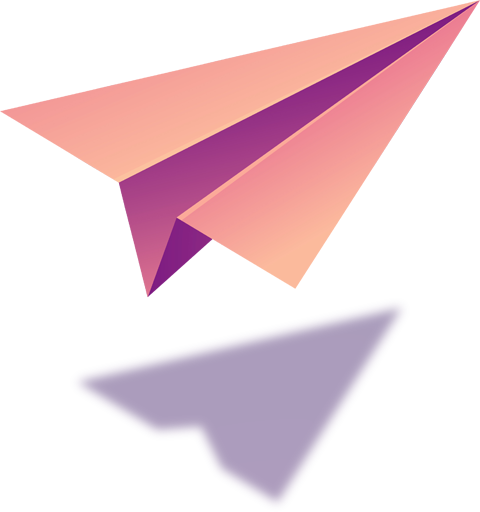
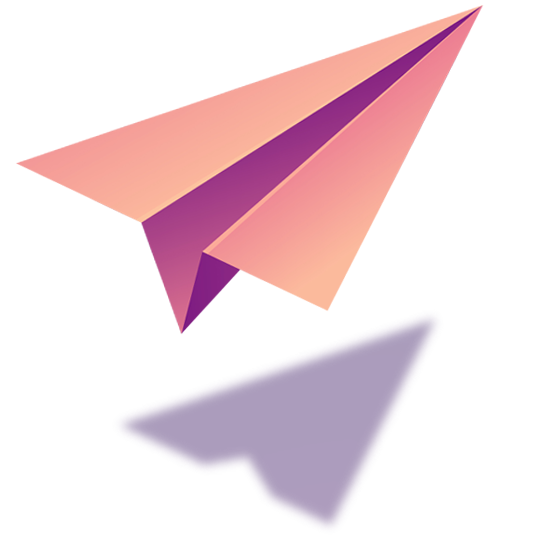
gradient

diff --git a/client/src/components/form/Login.css b/client/src/components/form/Login.css
@@ -56,24 +56,23 @@
     overflow: hidden;
 }
 
-.login__notification .envelope {
-    width: 130px;
+.login__notification .paperAirplane {
+    width: 170px;
     position: absolute;
     left: 20px;
     bottom: 0px;
     z-index: 1;
 }
 
-.login__notification .envelope img {
+.login__notification .paperAirplane img {
     width: 100%
 }
 
-
-.envelope-animation-enter {
- position: absolute;
+.paperAirplane-animation-enter {
+    position: absolute;
 }
 
-.envelope-animation-enter-active {
+.paperAirplane-animation-enter-active {
     transition: all 2000ms ease-in-out;
     position: absolute;
     transform: translate(2000px, -2000px);
@@ -81,7 +80,6 @@
     -o-transform: translate(2000px, -2000px);
     -moz-transform: translate(2000px, -2000px);
 }
-
 
 .login__notification--title {
     color: #fff;
@@ -239,7 +237,6 @@
 }
 
 @media (max-width: 1100px) {
-
     .main .login-sidebar,
     .signup-sidebar {
         display: none;
@@ -247,33 +244,36 @@
 }
 
 @media (max-width: 768px) {
-
     .main .login-sidebar,
     .signup-sidebar {
         display: none;
     }
 }
 
-
-
 .back-notification {
-    animation:fill 1s ease-in-out;  
-    bottom:0;
-    left:0;
-    position:absolute;
-    right:0;
-    top:0;
-    background-color: #7939e1;
+    animation: fill 1s ease-in-out;
+    bottom: 0;
+    left: 0;
+    position: absolute;
+    right: 0;
+    top: 0;
+    background: hsla(249, 27%, 15%, 1);
+    background: linear-gradient(45deg, hsla(249, 27%, 15%, 1) 0%, hsla(247, 29%, 17%, 1) 18%, hsla(248, 29%, 20%, 1) 32%, hsla(320, 64%, 33%, 1) 84%, hsla(320, 67%, 35%, 1) 100%);
+    background: -moz-linear-gradient(45deg, hsla(249, 27%, 15%, 1) 0%, hsla(247, 29%, 17%, 1) 18%, hsla(248, 29%, 20%, 1) 32%, hsla(320, 64%, 33%, 1) 84%, hsla(320, 67%, 35%, 1) 100%);
+    background: -webkit-linear-gradient(45deg, hsla(249, 27%, 15%, 1) 0%, hsla(247, 29%, 17%, 1) 18%, hsla(248, 29%, 20%, 1) 32%, hsla(320, 64%, 33%, 1) 84%, hsla(320, 67%, 35%, 1) 100%);
+    filter: progid: DXImageTransform.Microsoft.gradient( startColorstr="#1E1B2F", endColorstr="#221F38", GradientType=1);
+    /* background-color: #891e65; */
+    /* background-color: #2b2845; */
     z-index: 3;
-  }
-  
-  @keyframes fill {
+}
+
+@keyframes fill {
     0% {
-      border-radius:50%;
-      transform:translateY(150%) translateX(-150%) scale(2);
+        border-radius: 50%;
+        transform: translateY(150%) translateX(-150%) scale(2);
     }
     100% {
-      border-radius:50%;
-      transform:scale(2);
+        border-radius: 50%;
+        transform: scale(2);
     }
-  }
+}

diff --git a/client/src/components/form/Signup.jsx b/client/src/components/form/Signup.jsx
@@ -5,14 +5,14 @@ import { faEnvelope, faLock, faUser } from "@fortawesome/free-solid-svg-icons";
 import { useForm } from "react-hook-form";
 import { CSSTransition } from 'react-transition-group';
 import "./Login.css";
-import envelope from "../../assets/portal/envelope.png"
+import paperAirplane from "../../assets/portal/paper_airplane.png"
 
 export default function Signup({selectLoginForm}) {
 
   const [passwordType, setPasswordType] = useState(false);
   const [repeatPasswordType, setRepeatPasswordType] = useState(false);
   const [registerMessage, setRegisterMessage] = useState(false)
-  const [animationEnvelope, setAnimationEnvelope] = useState(false);
+  const [animationPaperAirplane, setAnimationPaperAirplane] = useState(false);
 
   const {
     register,
@@ -35,7 +35,7 @@ export default function Signup({selectLoginForm}) {
   const onSubmit = (data) => {
     console.log(data);
     setRegisterMessage(true);
-    setAnimationEnvelope(true)
+    setAnimationPaperAirplane(true)
     reset();
   };
 
@@ -57,15 +57,15 @@ export default function Signup({selectLoginForm}) {
           <div className="signup-sidebar__info">
             <div className="login__notification">
               <CSSTransition
-              in={animationEnvelope}
+              in={animationPaperAirplane}
               timeout={1000}
-              classNames="envelope-animation"
+              classNames="paperAirplane-animation"
               >
-              <div className="envelope">
-                <img src={envelope} alt="" />
+              <div className="paperAirplane">
+                <img src={paperAirplane} alt="" />
               </div>
               </CSSTransition>
-              <div className={animationEnvelope ? "back-notification" : ""}></div>
+              <div className={animationPaperAirplane ? "back-notification" : ""}></div>
             </div>
           </div>
         </div>
